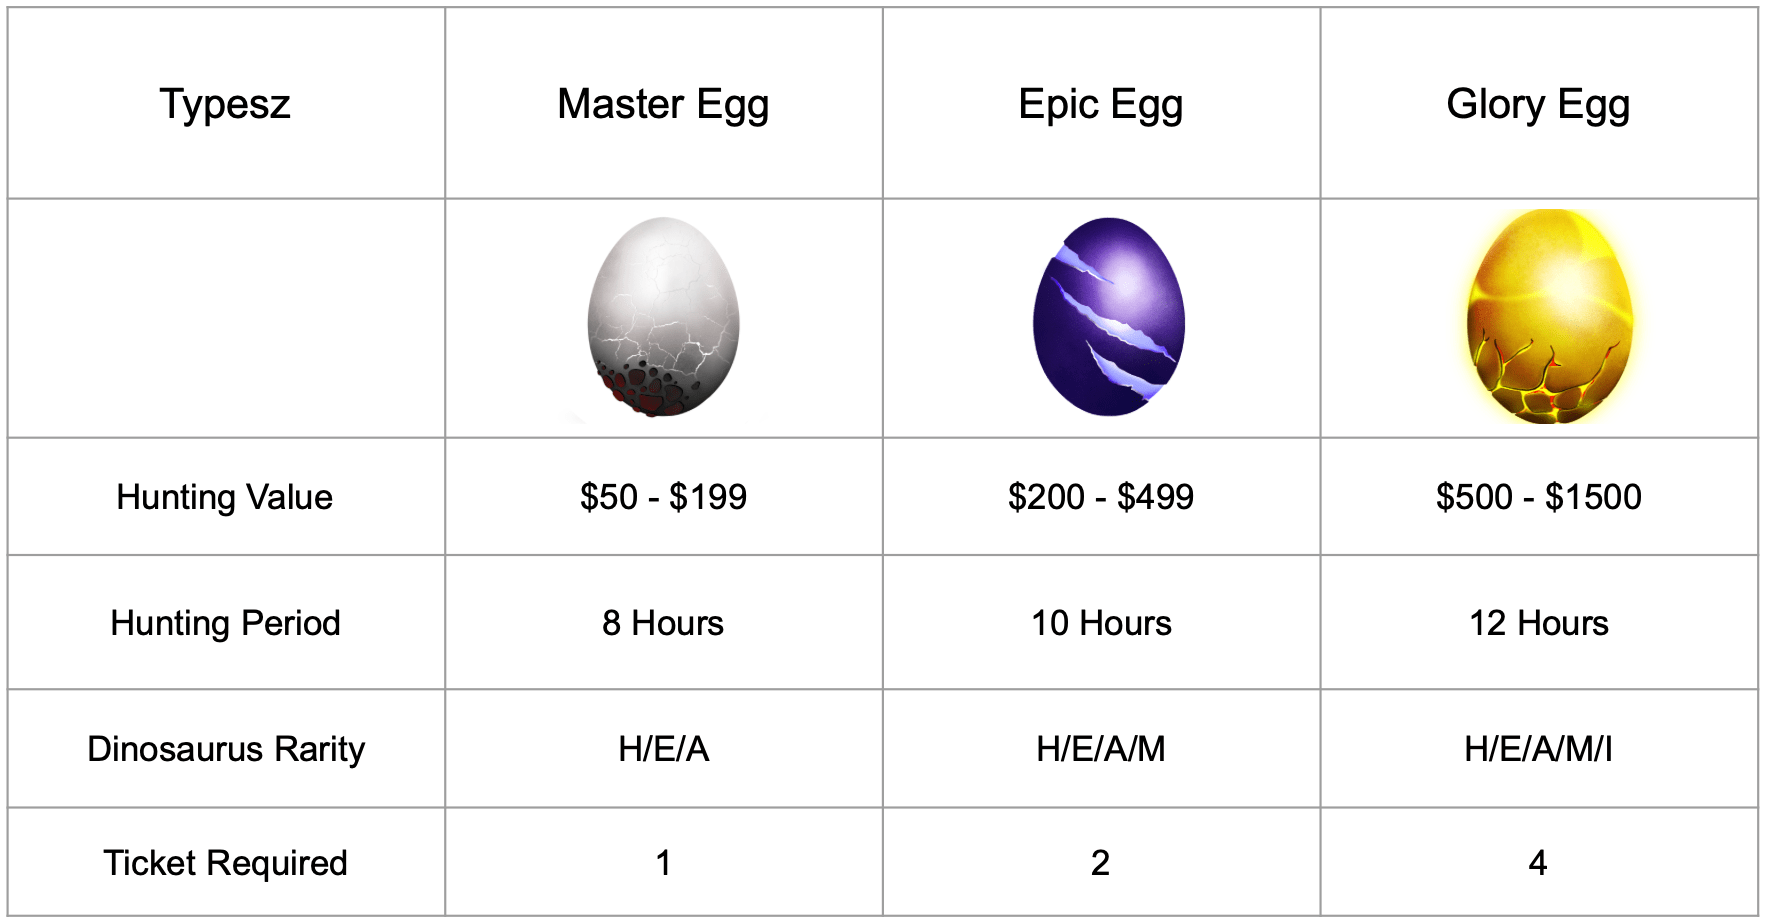
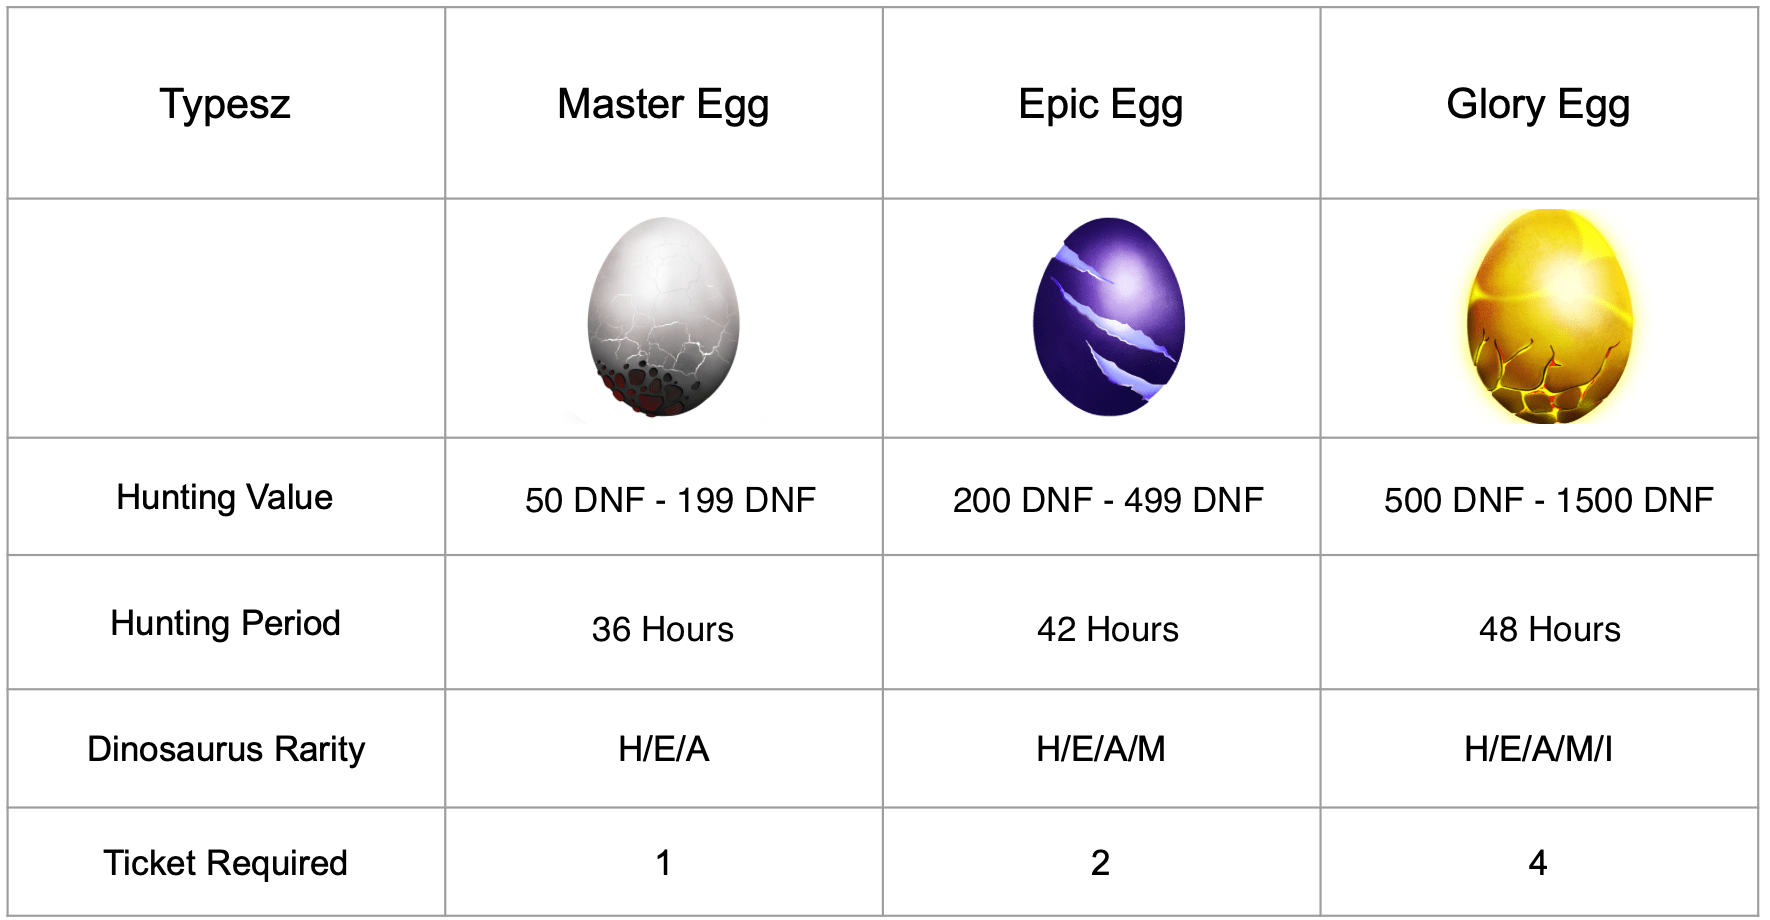
feat: game guide v2

diff --git a/src/AppTemp.tsx b/src/AppTemp.tsx
@@ -2779,7 +2779,7 @@ export const AppTemp = () => {
                 </form>
                 {swapState !== "LOADING" && (
                   <div className="flex flex-row justify-around w-full">
-                    <button onClick={ async () => {
+                    <button onClick={async () => {
                       // window.alert('add DNF')
                       try {
                         console.log('window.ethereum', window)
@@ -3633,7 +3633,7 @@ export const AppTemp = () => {
                     <p>
                       When the first dinosaur bone was described in Jurassic
                       World, it was thought to come from an elephant or perhaps a
-                      giant.Over a century later, scientists realised such fossils
+                      giant. Over a century later, scientists realised such fossils
                       came from a creature they named Megalosaurus. Then, in
                       leading anatomist recognised Megalosaurus as part of a whole
                       new group of animals, which named Dinosaur. Since then,
@@ -3653,14 +3653,12 @@ export const AppTemp = () => {
                     </p>
                     <br />
                     <p>
-                      Hunters need to go to the [Jurassic] Market to buy Dino Eggs
-                      before starting the hunting journey. When the Dino Eggs is
-                      successfully purchased, the Hunter will also accumulate its
-                      own hunting value. With the increase of the hunting value,
-                      the hunter can also advance to a higher level and enjoy more
-                      benefits (the hunting value of the first-level relationship
-                      buddies of the hunter, can also contribute to the hunter's
-                      hunting value, and assist the hunter to advance).
+                      Decentralized Concept, fair and comfortable in buying and selling
+                      Jurassic Eggs. Jurassic Egg understands that this kind of concept
+                      is an interesting concept to develop, so Jurassic Egg tries to study
+                      it and find a fairer and more comfortable game method and the balance
+                      in each personal Wallet, your balance is only used when buying an Egg.
+                      And the balance goes directly to your respective Wallet when you sell it..
                     </p>
                   </AccordionBody>
                 </Accordion>
@@ -3672,26 +3670,20 @@ export const AppTemp = () => {
                     onClick={() => handleOpenGameGuide(2)}
                     className="text-[#FFC700] hover:text-[#FFC700] font-Magra font-bold bg-[#031A22] px-4"
                   >
-                    Start Game
+                    Game Introduction
                   </AccordionHeader>
                   <AccordionBody className="bg-[#031A22] px-5 py-4 text-white text-sm">
                     <p>
-                      Before beginning the hunting expedition, hunters must
-                      purchase Dino Eggs at the [Jurassic] Market. Following the
-                      purchase of Dino Eggs, the hunter will also raise their
-                      hunting value, climb the rank ladder, and earn more rewards.
-                      (The hunting value of the hunter's first-degree buddies will
-                      also help the hunter rise in rank.)
-                    </p>
+                      Every Hunters going to start with getting Dino Egg
                     <br />
-                    <img src="/image/tableStartGame.png" alt="table start game" />
                     <br />
-                    <p>
-                      Hunters will receive additional awards from the [Jurassic]
-                      Market in addition to hunting rewards for successfully
-                      capturing Dinosaur during the hunting procedure. Hunters
-                      who failed to capture any Dinosaur will also receive
-                      rewards for their efforts.
+                      Your Dino Egg will start hunting for you in the Jurassic World for 33-48 hours after a successful purchase. After the hunt, the Dino Egg are returned to the Jurassic Egg Market for sale. As more hunts are performed, the Dino Egg gains experience points and develops their ability to catch rare Dinosaur.
+                      <br />
+                      <br />
+                      If you successfully catch a Dinosaur, you will receive a certain amount of DNF and the Dinosaur Card.
+                      <br />
+                      <br />
+                      Collect every Dinosaur Card to enjoy our grand price up to 9999 DNF
                     </p>
                   </AccordionBody>
                 </Accordion>
@@ -3703,27 +3695,34 @@ export const AppTemp = () => {
                     onClick={() => handleOpenGameGuide(3)}
                     className="text-[#FFC700] hover:text-[#FFC700] font-Magra font-bold bg-[#031A22] px-4"
                   >
-                    Jurassic Market
+                    Jurassic Fund
+                  </AccordionHeader>
+                  <AccordionBody className="bg-[#031A22] px-5 py-4 text-white text-sm">
+                    <p>Jurassic Fund is the most important component of the game. All Dino Eggs listed in the jurassic market are only availablle Up to 24hours, After that jurassic eggs will be buyback using the Dino Fund pool</p>
+                      <br />
+                    <p className="text-[#FFC700]">Dino Fund usage includes :</p>
+                      <br />
+                    <img src="/image/jurassicfund.png" alt="jurassic fund" />
+                  </AccordionBody>
+                </Accordion>
+                <Accordion
+                  open={openGameGuide === 4}
+                  icon={<IconGameGuide id={4} open={openGameGuide} />}
+                >
+                  <AccordionHeader
+                    onClick={() => handleOpenGameGuide(4)}
+                    className="text-[#FFC700] hover:text-[#FFC700] font-Magra font-bold bg-[#031A22] px-4"
+                  >
+                    Jurassic Egg Market
                   </AccordionHeader>
                   <AccordionBody className="bg-[#031A22] px-5 py-4 text-white text-sm">
                     <p>
-                      A place where all hunters gather.
+                      Dino Eggs are sold sporadically at Jurassic Egg Market for 50 DNF each. The price of Dino Eggs increases as XP levels increase.
                       <br />
                       <br />
-                      Hunters who intend to purchase Dino Eggs here are required
-                      to have purchase eggs, tickets and USDT in their account.
+                      For a better gaming experience, the overall number of Dino Eggs in circula- tion will depend on the number active Hunters.
                       <br />
                       <br />
-                      One hour prior to the end of the hunt, hunters who are
-                      hunting can pre-list their Dino Eggs at the [Jurassic]
-                      market. The Dino eggs will be listed immediately at the
-                      [Jurassic] market for other Hunters to purchase from after
-                      the hunting session has ended.
-                      <br />
-                      <br />
-                      All Dino Eggs listed in the Jurassic Market are only
-                      available for 24 hours. After 24 hours, any remaining
-                      Jurassic Eggs will trigger the Dino Fund's buy- back policy.
                     </p>
                   </AccordionBody>
                 </Accordion>
@@ -3733,12 +3732,55 @@ export const AppTemp = () => {
                 >
                   <AccordionHeader
                     onClick={() => handleOpenGameGuide(5)}
+                    className="text-[#FFC700] hover:text-[#FFC700] font-Magra font-bold bg-[#031A22] px-4 text-left"
+                  >
+                    Get DNF Rewards When you Catch Dinosaur!
+                  </AccordionHeader>
+                  <AccordionBody className="bg-[#031A22] px-5 py-4 text-white text-sm">
+                    <img src="/image/dnfreward.png" alt="dnf reward" />
+                  </AccordionBody>
+                </Accordion>
+                <Accordion
+                  open={openGameGuide === 6}
+                  icon={<IconGameGuide id={6} open={openGameGuide} />}
+                >
+                  <AccordionHeader
+                    onClick={() => handleOpenGameGuide(6)}
+                    className="text-[#FFC700] hover:text-[#FFC700] font-Magra font-bold bg-[#031A22] px-4"
+                  >
+                    Get More Rewards From Gacha
+                  </AccordionHeader>
+                  <AccordionBody className="bg-[#031A22] px-5 py-4 text-white text-sm">
+                    <img src="/image/gatchareward.png" alt="gatcha reward" />
+                  </AccordionBody>
+                </Accordion>
+                <Accordion
+                  open={openGameGuide === 7}
+                  icon={<IconGameGuide id={7} open={openGameGuide} />}
+                >
+                  <AccordionHeader
+                    onClick={() => handleOpenGameGuide(7)}
                     className="text-[#FFC700] hover:text-[#FFC700] font-Magra font-bold bg-[#031A22] px-4"
                   >
                     Dino Egg
                   </AccordionHeader>
                   <AccordionBody className="bg-[#031A22] px-5 py-4 text-white text-sm">
-                    <img src="/image/tableDinoEgg.png" alt="table start game" />
+                    <p>
+                      Dino Eggs will be listed soon in the Jurassic Egg Market and available for purchase once the hunt is over. With the new EXP, the cost of Dino Eggs will increase by 6%.
+                      <br />
+                      <br />
+                      2% will go to the seller, 1% will go to plattform Fee and 3% will go to the
+                      “Hunting Buddy Bonus” (if your buddy buy egg), if the Dino Egg has not been sold after 24 hours, Jurassic Fund will purchase the Dino Egg using the Dino Fund Pool.
+                      <br />
+                      <br />
+                      Active income from the Group
+                      <br />
+                      <br />
+                      Ticket Price 0.25 DNF/Ticket.
+                    </p>
+                    <br />
+                    <br />
+                    <img src="/image/tableDinoEgg.png" alt="table dino egg" />
                   </AccordionBody>
                 </Accordion>
                 <Accordion
@@ -3763,54 +3805,122 @@ export const AppTemp = () => {
                   </AccordionBody>
                 </Accordion>
                 <Accordion
-                  open={openGameGuide === 6}
-                  icon={<IconGameGuide id={6} open={openGameGuide} />}
+                  open={openGameGuide === 8}
+                  icon={<IconGameGuide id={8} open={openGameGuide} />}
                 >
                   <AccordionHeader
-                    onClick={() => handleOpenGameGuide(6)}
+                    onClick={() => handleOpenGameGuide(8)}
                     className="text-[#FFC700] hover:text-[#FFC700] font-Magra font-bold bg-[#031A22] px-4"
                   >
-                    Buddies
+                    Hunting Buddy Bonus
                   </AccordionHeader>
                   <AccordionBody className="bg-[#031A22] px-5 py-4 text-white text-sm">
                     <p>
-                      Hunters can earn Buddy hunting bonuses by recruiting
-                      Buddies; Bonuses will be earned whenever your Buddies
-                      purchase Dino Eggs. Tiers receivable are based on the
-                      hunter’s personal rank.
+                      When your Buddy earns DNF from hunting in Jurassic Egg, you will be able to receive a 6.667% bonus on the amount they earn. Hunters can receive up to level 15 of their commander’s hunting bonus. With more Buddy, the more bonuses you can receive.
+                      <br />
+                      <br />
+                      Example :
+                      <br />
+                      <br />
+                      A Legendary hunter’s (all with in level 15 of his network) total hunting value for the day is 5,000,000 DNF, which means their hunting profit is 150,000 DNF. If so, this legendary hunter will get 6.667% of his 150,000 DNF. which is 10,000 DNF as his buddy Hunting Bonus.
+                      <br />
+                      <br />
+                      To receive the Hunting Bonus, the hunters must spend one Ticket before the day ends.
                     </p>
                     <br />
                     <p className="font-bold">Hunter's Rank</p>
-                    <img src="/image/tableBuddies.png" alt="table start game" />
                     <br />
-                    <p>
-                      *In order to receive Buddy Hunting Bonus, the hunter will
-                      need to exhaust Purchase Egg before the day ends,
-                      11:59 hours (UTC +7)
-                    </p>
                   </AccordionBody>
                 </Accordion>
                 <Accordion
-                  open={openGameGuide === 7}
-                  icon={<IconGameGuide id={7} open={openGameGuide} />}
+                  open={openGameGuide === 9}
+                  icon={<IconGameGuide id={9} open={openGameGuide} />}
                 >
                   <AccordionHeader
-                    onClick={() => handleOpenGameGuide(7)}
-                    className="text-[#FFC700] hover:text-[#FFC700] font-Magra font-bold bg-[#031A22] px-4 rounded-b-xl"
+                    onClick={() => handleOpenGameGuide(9)}
+                    className="text-[#FFC700] hover:text-[#FFC700] font-Magra font-bold bg-[#031A22] px-4"
                   >
-                    Rank Requalification
+                    Hunting Ranking
                   </AccordionHeader>
                   <AccordionBody className="bg-[#031A22] px-5 py-4 text-white text-sm">
                     <p>
-                      Hunter are required to maintain their rank in order to enjoy
-                      their current benefits. 1 week following a promotion to a
-                      rank, a minimum amount of personal hunting value is required
-                      for requalification.
+                      As a Hunter and his partner continue to hunt dinosaur in the game, they will gradually move up to the next rank. The higher rank of the Hunter, more allowances
+                      <br />
+                      <br />
                     </p>
                     <br />
+                    <br />
+                    <img src="/image/hunterranking.png" alt="hunter ranking" />
+                  </AccordionBody>
+                </Accordion>
+                <Accordion
+                  open={openGameGuide === 10}
+                  icon={<IconGameGuide id={10} open={openGameGuide} />}
+                >
+                  <AccordionHeader
+                    onClick={() => handleOpenGameGuide(10)}
+                    className="text-[#FFC700] hover:text-[#FFC700] font-Magra font-bold bg-[#031A22] px-4 rounded-b-xl"
+                  >
+                    Dino Egg Trading Illustration
+                  </AccordionHeader>
+                  <AccordionBody className="bg-[#031A22] px-5 py-4 text-white text-sm">
                     <img
-                      src="/image/tableRankRequalification.png"
+                      src="/image/dinotrading.png"
                       alt="table start game"
+                    />
+                  </AccordionBody>
+                </Accordion>
+                <Accordion
+                  open={openGameGuide === 11}
+                  icon={<IconGameGuide id={11} open={openGameGuide} />}
+                >
+                  <AccordionHeader
+                    onClick={() => handleOpenGameGuide(11)}
+                    className="text-[#FFC700] hover:text-[#FFC700] font-Magra font-bold bg-[#031A22] px-4 rounded-b-xl"
+                  >
+                    Transaction Process
+                  </AccordionHeader>
+                  <AccordionBody className="bg-[#031A22] px-5 py-4 text-white text-sm">
+                    <img
+                      src="/image/transactionprocess.png"
+                      alt="transaction process"
+                    />
+                  </AccordionBody>
+                </Accordion>
+                <Accordion
+                  open={openGameGuide === 12}
+                  icon={<IconGameGuide id={12} open={openGameGuide} />}
+                >
+                  <AccordionHeader
+                    onClick={() => handleOpenGameGuide(12)}
+                    className="text-[#FFC700] hover:text-[#FFC700] font-Magra font-bold bg-[#031A22] px-4 rounded-b-xl"
+                  >
+                    Ultimate Hunter
+                  </AccordionHeader>
+                  <AccordionBody className="bg-[#031A22] px-5 py-4 text-white text-sm">
+                    <p className="text-[#FFC700]">Join and become an Ultimate Hunter!</p>
+                    <br />
+                    <br />
+                    <p>Subscribe to the Ultimate Pass to enjoy additional perks in Jurassic Egg</p>
+                    <br />
+                    <br />
+                    <p className="text-[#FFC700]">Ultimate Pass Benefits :</p>
+                    <br />
+                    <br />
+                    <p>
+                      Automatic sale of your Dino Egg (No need to "Pre-Register")
+                      <br />
+                      <br />
+                      1 Extra egg purchase per day
+                      <br />
+                      <br />
+                      10% less hunting time
+                    </p>
+                    <br />
+                    <br />
+                    <img
+                      src="/image/ultimatehunter.png"
+                      alt="ultimate hunter"
                     />
                   </AccordionBody>
                 </Accordion>
